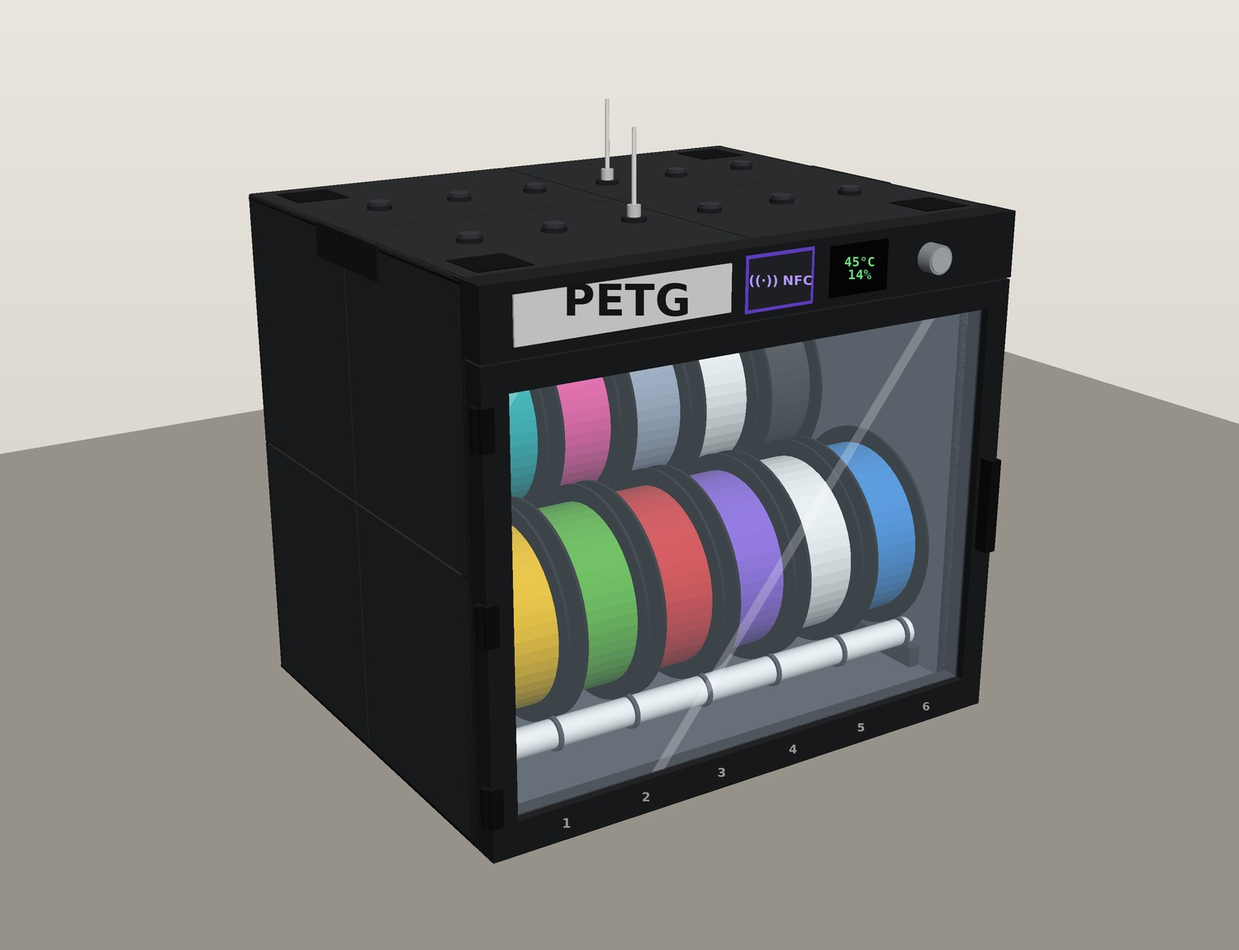
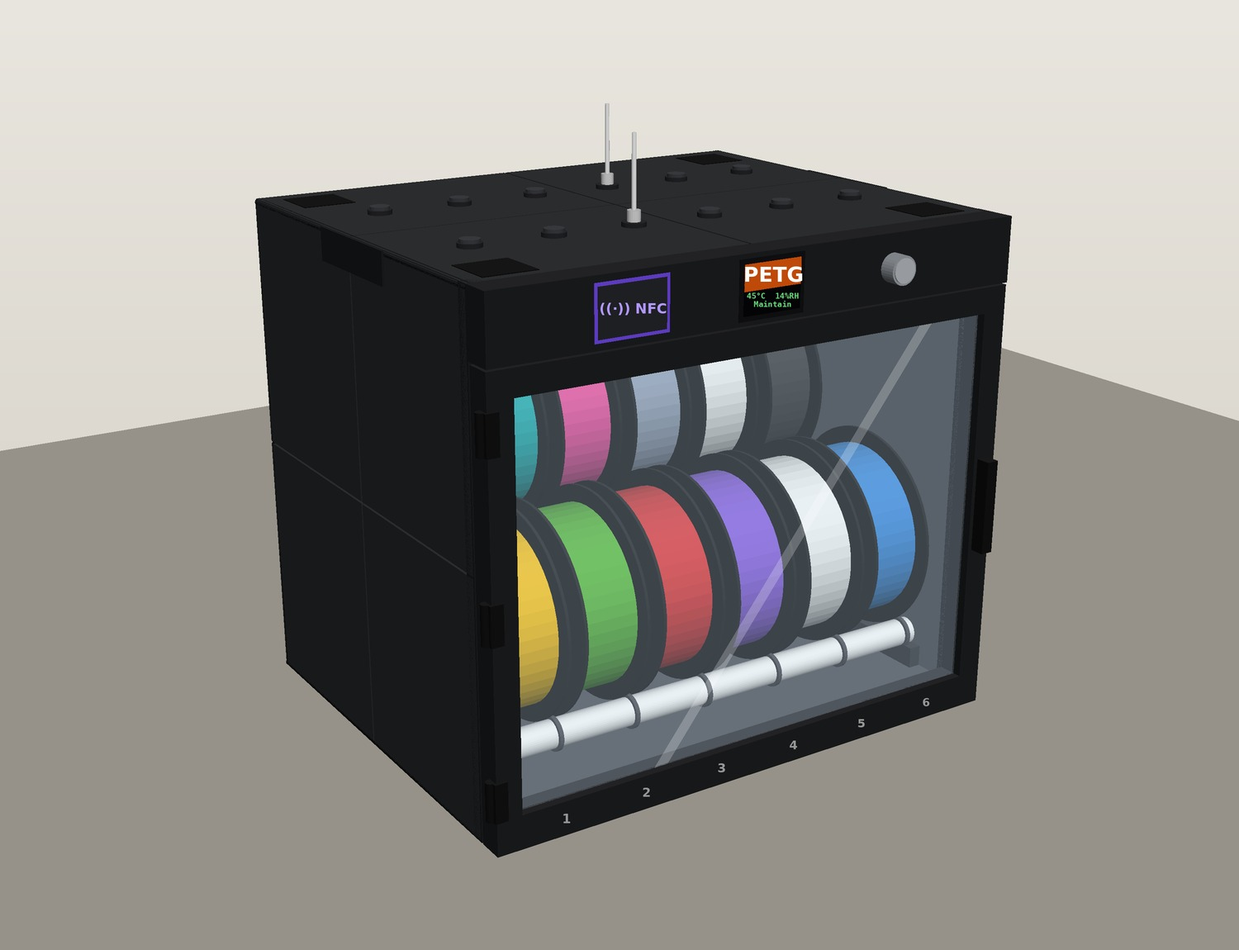
Dry cabinet v0.8: material label on a 2.8 in IPS TFT, no printed plate
Cabinet name, label colour and idle brightness settings; always-on label
page with wake on door/knob/tap; backup tag on the door rail; header,
figures, wiring and renders updated.

Claude-Session: https://claude.ai/code/session_01Fr6xhM7DESu9XfqMuZQkwi

diff --git a/models/filament-dry-cabinet/source/draw.py b/models/filament-dry-cabinet/source/draw.py
@@ -25,7 +25,7 @@ for r in [(0,-T+4,ID,T-8),(0,IH+4,ID,T-8),(ID+4,-T,T-8,IH+2*T)]:
 # door (twin-wall polycarbonate) + header
 ax.add_patch(Rectangle((-DOOR, -T), DOOR, IH+2*T-HEADER, facecolor='#9fd3f5', alpha=0.6, edgecolor='#333'))
 ax.add_patch(Rectangle((-DOOR, IH+T-HEADER), DOOR+8, HEADER, color='#222'))
-ax.text(-DOOR-6, IH+T-HEADER/2, 'header:\nlabel plate,\ndisplay, encoder', ha='right', va='center', fontsize=8)
+ax.text(-DOOR-6, IH+T-HEADER/2, 'header:\nNFC pad, 2.8" TFT\n(label), encoder', ha='right', va='center', fontsize=8)
 ax.text(-DOOR-6, IH/2-40, 'door: printed frame,\n2 x polycarbonate\n+ air gap, EPDM seal', ha='right', va='center', fontsize=8)
 # rear control pod
 ax.add_patch(Rectangle((ID+T, 30), POD, 230, facecolor='#555', edgecolor='#222'))
@@ -103,20 +103,21 @@ ax.add_patch(Rectangle((-T, -T-FEET), EW, A['eh'], facecolor='#2b2b2b'))
 # door glass and header
 htop = IH + T; hy = htop - HEADER
 ax.add_patch(Rectangle((0, -T+12), IW, hy-4-(-T+12), facecolor='#cfe8fc', alpha=0.9, edgecolor='#111', lw=3))
-ax.add_patch(Rectangle((30, hy+10), 200, HEADER-20, facecolor='#e9ecef', edgecolor='#111'))
-ax.text(130, hy+HEADER/2+3, 'PETG', ha='center', va='center', fontsize=22, weight='bold')
-ax.text(130, hy+11, 'swappable label plate', ha='center', va='bottom', fontsize=6)
 # NFC tap pad (PN5180 antenna behind the header)
-ax.add_patch(Rectangle((245, hy+6), 70, HEADER-12, facecolor='#343a40', edgecolor='#7048e8', lw=2))
+ax.add_patch(Rectangle((80, hy+6), 70, HEADER-12, facecolor='#343a40', edgecolor='#7048e8', lw=2))
 for r in (8, 14, 20):
-    ax.add_patch(matplotlib.patches.Arc((268, hy+HEADER/2), r, r*1.3, theta1=-50, theta2=50, color='#b197fc', lw=1.5))
-ax.text(295, hy+HEADER/2, 'TAP', ha='center', va='center', color='#b197fc', fontsize=9, weight='bold')
-ax.text(280, hy+1, 'NFC (OpenPrintTag)', ha='center', va='bottom', fontsize=5.5, color='white')
-ax.add_patch(Rectangle((330, hy+8), 62, HEADER-16, facecolor='#111', edgecolor='#666'))
-ax.text(361, hy+HEADER/2, '42°C\n14%RH', ha='center', va='center', color='#69db7c', fontsize=8, family='monospace')
-ax.add_patch(Circle((440, hy+HEADER/2), 14, facecolor='#adb5bd', edgecolor='#111'))
-ax.text(440, hy+1, 'encoder', ha='center', va='bottom', fontsize=6, color='white')
-ax.text(361, hy+1, '2.0" TFT', ha='center', va='bottom', fontsize=6, color='white')
+    ax.add_patch(matplotlib.patches.Arc((103, hy+HEADER/2), r, r*1.3, theta1=-50, theta2=50, color='#b197fc', lw=1.5))
+ax.text(130, hy+HEADER/2, 'TAP', ha='center', va='center', color='#b197fc', fontsize=9, weight='bold')
+ax.text(115, hy+1, 'NFC (OpenPrintTag)', ha='center', va='bottom', fontsize=5.5, color='white')
+# 2.8 in IPS TFT, centred: material name on a colour band + status line
+cx, cz = IW/2, hy+HEADER/2
+ax.add_patch(Rectangle((cx-28.8, cz-21.6), 57.6, 43.2, facecolor='#050608', edgecolor='#666'))
+ax.add_patch(Rectangle((cx-28.8, cz-1), 57.6, 22.6, facecolor='#e8590c'))
+ax.text(cx, cz+10.5, 'PETG', ha='center', va='center', color='white', fontsize=13, weight='bold')
+ax.text(cx, cz-11, '45°C 14%RH', ha='center', va='center', color='#69db7c', fontsize=5.5, family='monospace')
+ax.text(cx, hy+1, '2.8" IPS TFT (label + menu)', ha='center', va='bottom', fontsize=5.5, color='white')
+ax.add_patch(Circle((375, hy+HEADER/2), 14, facecolor='#adb5bd', edgecolor='#111'))
+ax.text(375, hy+1, 'encoder', ha='center', va='bottom', fontsize=6, color='white')
 # LED strip just inside, under the header
 ax.add_patch(Rectangle((10, hy-14), IW-20, 6, color='#fab005'))
 for i in range(6):
@@ -138,6 +139,6 @@ ax.text(IW+8, A['rod_front'], '3/4 in PVC rods\n+ index collars', fontsize=8, va
 ax.text(IW+8, IH+T-HEADER-11, 'SK6812 strip\n(5 LEDs per slot)', fontsize=8, va='center')
 ax.set_xlim(-T-10, EW+90); ax.set_ylim(-T-FEET-45, A['eh']-T-FEET+10)
 ax.set_aspect('equal'); ax.axis('off')
-ax.set_title('Front view: slots F1-F6 / B1-B6, label plate, NFC tap pad, display + encoder', fontsize=12)
+ax.set_title('Front view: slots F1-F6 / B1-B6, NFC tap pad, 2.8" TFT (shows the label), encoder', fontsize=12)
 plt.savefig('layout_front.png', dpi=110, bbox_inches='tight')
 print('ok')

diff --git a/models/filament-dry-cabinet/source/render/scene.py b/models/filament-dry-cabinet/source/render/scene.py
@@ -8,6 +8,7 @@ from PIL import Image, ImageDraw, ImageFont, ImageFilter
 A = stadium(6, 120)
 IW, ID, IH = A['iw'], A['idepth'], A['ih']
 T = WALL; HEADER = 60.0
+MAT_COL = {'PLA': '#2f9e44', 'PETG': '#e8590c', 'ABS': '#c92a2a', 'ASA': '#c92a2a', 'TPU': '#1971c2', 'Nylon': '#6741d9'}
 X0, X1 = -T, IW + T                 # exterior x
 YF, YB = -DOOR, ID + T              # exterior y (front of door .. back)
 ZB, ZT = -T, IH + T                 # exterior z (bottom of shell .. top)
@@ -98,19 +99,20 @@ def cabinet(ox=0, oz=0, material='PETG', spool_cols=SPOOL_COLS, ports_open=(2, 9
     add(box(X0-2, X0, 140, 260, ZT-30, ZT), hexc('#1b1c1f')); add(box(X1, X1+2, 140, 260, ZT-30, ZT), hexc('#1b1c1f'))
     # header (60 mm) across the front
     add(box(X0, X1, YF-1, 0, ZT-HEADER, ZT), FRAME)
-    # label plate
-    add(box(X0+28, X0+228, YF-3, YF-1, ZT-HEADER+10, ZT-10), hexc('#e6e7e9'))
-    labels.append(((X0+128+ox, YF-3, ZT-HEADER/2+3+oz), material, 'plate'))
     # NFC tap pad (recessed, purple ring)
-    add(box(X0+243, X0+313, YF-1.6, YF-1, ZT-HEADER+6, ZT-6), hexc('#7048e8'))
-    add(box(X0+246, X0+310, YF-2.2, YF-1.2, ZT-HEADER+9, ZT-9), hexc('#25262b'))
-    labels.append(((X0+278+ox, YF-2.3, ZT-HEADER/2+oz), 'NFC', 'nfc'))
-    # display
-    add(box(X0+330, X0+392, YF-2.5, YF-1, ZT-HEADER+8, ZT-8), hexc('#050608'))
-    labels.append(((X0+361+ox, YF-2.6, ZT-HEADER/2+oz), '45°C\n14%', 'tft'))
+    add(box(X0+95, X0+165, YF-1.6, YF-1, ZT-HEADER+6, ZT-6), hexc('#7048e8'))
+    add(box(X0+98, X0+162, YF-2.2, YF-1.2, ZT-HEADER+9, ZT-9), hexc('#25262b'))
+    labels.append(((X0+130+ox, YF-2.3, ZT-HEADER/2+oz), 'NFC', 'nfc'))
+    # 2.8 in IPS TFT (57.6 x 43.2 active), centred: the material name is shown on it
+    cx = (X0+X1)/2; zc = ZT-HEADER/2
+    add(box(cx-33, cx+33, YF-1.8, YF-1, zc-26, zc+26), hexc('#111214'))             # bezel
+    add(box(cx-28.8, cx+28.8, YF-2.4, YF-1.6, zc-21.6, zc+21.6), hexc('#050608'))   # panel
+    add(box(cx-28.8, cx+28.8, YF-2.6, YF-2.2, zc-1, zc+21.6), hexc(MAT_COL.get(material, '#868e96')))
+    labels.append(((cx+ox, YF-2.8, zc+10.5+oz), material, 'tftname'))
+    labels.append(((cx+ox, YF-2.8, zc-11+oz), '45°C  14%RH\nMaintain', 'tftinfo'))
     # encoder knob
-    add(cyl_y(X0+440, YF-16, YF-1, ZT-HEADER/2, 13), hexc('#9aa0a6'))
-    add(cyl_y(X0+440, YF-17, YF-16, ZT-HEADER/2, 11), hexc('#b8bdc2'))
+    add(cyl_y(X0+395, YF-16, YF-1, ZT-HEADER/2, 13), hexc('#9aa0a6'))
+    add(cyl_y(X0+395, YF-17, YF-16, ZT-HEADER/2, 11), hexc('#b8bdc2'))
     # door frame (25 mm border) and glass
     dz0, dz1 = ZB, ZT-HEADER-2
     bw = 24
@@ -222,8 +224,11 @@ def render(items, glass, labels, out, eye, target, fov=32, W=1500, H=1150, ss=2,
         xi, yi = int(x), int(y)
         if not (0 <= xi < Wr and 0 <= yi < Hr) or z > zb[yi, xi] + 6: continue   # occluded
         scale = f/z
-        if kind == 'plate':
-            fnt = ImageFont.truetype(F_B, int(34*scale)); dr.text((x, y), txt, font=fnt, fill=(20, 20, 22), anchor='mm')
+        if kind == 'tftname':
+            fnt = ImageFont.truetype(F_B, int(17*scale)); dr.text((x, y), txt, font=fnt, fill=(255, 255, 255), anchor='mm')
+        elif kind == 'tftinfo':
+            fnt = ImageFont.truetype(F_M, int(6.5*scale))
+            dr.multiline_text((x, y), txt, font=fnt, fill=(105, 219, 124), anchor='mm', align='center', spacing=2)
         elif kind == 'nfc':
             fnt = ImageFont.truetype(F_B, int(11*scale)); dr.text((x, y), '((·)) ' + txt, font=fnt, fill=(177, 151, 252), anchor='mm')
         elif kind == 'tft':

diff --git a/models/filament-dry-cabinet/source/wiring.py b/models/filament-dry-cabinet/source/wiring.py
@@ -38,7 +38,7 @@ box(102, 47, 24, 12, 'Door reed switch', 'light on when open\nheater/fan pause',
 wire((39, 50), (44, 50), SIG); wire((44, 50), (44, 44.5), SIG); wire((44, 44.5), (114, 44.5), SIG, 'I2C / ADC / GPIO (3.3 V)')
 for x in (61, 87, 114): wire((x, 44.5), (x, 46.6), SIG)
 # UI and LEDs
-box(50, 24, 24, 15, 'Front header UI', '2.0" ILI9341/ST7789 SPI TFT\nEC11 rotary encoder + push\ngraphical_display_menu', fc='#e7f5ff', ec=SIG)
+box(50, 24, 24, 15, 'Front header UI', '2.8" IPS SPI TFT (label + menu)\nbacklight PWM, EC11 encoder\ngraphical_display_menu', fc='#e7f5ff', ec=SIG)
 wire((29, 47), (29, 31), SIG); wire((29, 31), (50, 31), SIG, 'SPI + encoder')
 box(80, 24, 24, 15, 'SK6812 RGBW 5 V', '60 LED/m, ~30 LEDs\n74AHCT125 level shift\n330 R + 1000 uF', fc='#ebfbee', ec=V5)
 wire((35, 47), (35, 21.5), SIG); wire((35, 21.5), (86, 21.5), SIG, 'LED data (RMT)'); wire((86, 21.5), (86, 23.6), SIG)

diff --git a/models/filament-dry-cabinet/DESIGN.md b/models/filament-dry-cabinet/DESIGN.md
@@ -1,4 +1,4 @@
-# Filament Dry Cabinet: Design Spec (v0.7)
+# Filament Dry Cabinet: Design Spec (v0.8)
 
 This spec is for review before any CAD. v0.2 includes your answers to the open questions (§10). It sets the layout, construction, electronics, ESPHome control and the Spoolman slot scheme for **one cabinet**. You'll build **one cabinet per material family**: PLA, PETG, ABS/ASA, and so on.
 
@@ -9,9 +9,9 @@ This spec is for review before any CAD. v0.2 includes your answers to the open q
 | R1 | Filament storage that also dehumidifies | Sealed, insulated chamber with a **low-voltage PTC heater**, a circulation fan and **pull-out silica gel cartridges** (§5) |
 | R2 | Modular, looks like the concept picture | **Printed tile panels** (each ≤ 330 mm, to fit the 350 mm bed) bolted together, a dark frame and a full-width glass door (§4) |
 | R3 | PVC or other hardware-store parts as spool shelves | Spools roll on **3/4 in Sch 40 PVC pipe** (26.7 mm OD) set in printed cradles (§4.3) |
-| R4 | ESPHome (ESP32) with local controls and status | ESP32-S3, a **2.0 in TFT and rotary encoder** for setpoints, plus the HA API and a local web page (§6, §7) |
+| R4 | ESPHome (ESP32) with local controls and status | ESP32-S3, a **2.8 in IPS TFT and rotary encoder** for setpoints, plus the HA API and a local web page (§6, §7) |
 | R5 | SK6812 LED lighting | **SK6812 RGBW** strip under the front header, 5 LEDs per slot, so it can **light up a single slot** (§6.4) |
-| R6 | Front label plate, and an index position for each spool that Spoolman can manage | Swappable **material label plate** in the header. **Slot IDs F1–F6 and B1–B6** on index collars and the door rail (§8). |
+| R6 | Front label, and an index position for each spool that Spoolman can manage | **The material label is shown on the 2.8 in TFT** (v0.8, replaces the printed plate), set from the menu or HA, plus a small printed backup tag on the door rail. **Slot IDs F1–F6 and B1–B6** on the door rail (§8). |
 | R7 | **≤ 20 in (508 mm) deep** for standard shelves, **≤ 20 in shelf spacing** | **442 mm (17.4 in)** cabinet, **492 mm (19.4 in)** with the rear control pod, using offset-height rows. **485 mm (19.1 in) tall.** (§3) |
 | R8 | IEC 320 C14 fused inlet | **Fused and switched C14 module** in the rear control pod (§6.1) |
 | R9 | About 12 spools | **12 × 1 kg spools** (200 mm across, up to 75 mm wide) |
@@ -83,12 +83,14 @@ Renders are drawn from the spec dimensions (§3). The original inspiration image
 - **Printed U-cradles** on the side walls let the rods turn, so spools spin freely and can feed out. The rods also lift straight out for cleaning. The back-row cradles sit on printed risers, 120 mm higher.
 - **Index collars:** printed 46 mm rings, 5 mm wide, every **80 mm** (75 mm spool plus 5 mm gap). They **slide on from the rod end** (the rods lift out) and **three spring tabs grip the PVC**, so they can be moved. A split ring that clips on sideways would be too stiff at this size (v0.7). They keep spools in their slots. Slot numbers are on the door rail, since the rods turn.
 
-### 4.4 Front header and label plate
+### 4.4 Front header and on-screen label
 - A 60 mm header above the door holds, from left to right:
-  - a **swappable label plate**: multicolour printed text such as "PETG" that slides into a groove
   - the **NFC tap pad**, a recessed area with a printed tap icon over the PN5180 antenna
-  - the **2.0 in TFT**
+  - the **2.8 in IPS TFT** (320 × 240, about 57.6 × 43.2 mm active, module about 86 × 50 mm), centred. **It is the cabinet's label** (v0.8): the material name in large letters on a colour band, with temperature, humidity and mode below. See §7 for the screen behaviour.
   - the **encoder knob**
+- **The printed label plate is gone** (v0.8). The name is a setting, so changing what a cabinet holds needs no reprint.
+- **Backup tag:** a small printed tag (about 40 × 12 mm) clips into a slot at the left end of the door's bottom rail, so the cabinet is still identified when it's unplugged.
+- **Display mount:** the panel sits behind a printed bezel with a 58.6 × 44.2 mm window, held by its four PCB holes on printed standoffs. Measure the exact module before the header CAD, since 2.8 in boards vary by a few mm.
 - **The tap pad has no metal over it**, and the plastic covering the antenna is no more than 2–3 mm thick. If the PN5180 module you buy doesn't fit behind a 60 mm header, the header grows by up to 10 mm. The cabinet would then be 504 mm (19.8 in) tall, still under 20 in.
 - The **slot numbers 1–6** are also moulded into the door's bottom rail, lined up with the columns.
 
@@ -169,7 +171,7 @@ There's also a **"Dry" mode** that runs a timed cycle at the cabinet's maximum t
 | Heater | logic-level N-MOSFET, low side | GPIO, `slow_pwm` (about 5 s period) |
 | Fan | 4-pin PWM | LEDC at 25 kHz, tach to `pulse_counter` |
 | LEDs | SK6812 RGBW, about 30 LEDs | `esp32_rmt_led_strip`, via a **74AHCT125** level shifter, 330 Ω series resistor and 1000 µF at the strip |
-| Display | 2.0 in ILI9341/ST7789 SPI TFT | SPI |
+| Display | **2.8 in IPS SPI TFT, 320 × 240** (ST7789 or ILI9341 IPS), no touch | SPI (shared with the PN5180, own CS) + **backlight on an LEDC PWM pin** via a small transistor |
 | Local control | EC11 rotary encoder with push switch | `rotary_encoder` + GPIO |
 | Door | reed switch + magnet | GPIO (`binary_sensor`) |
 | Buzzer (optional) | piezo for alarms | GPIO / LEDC |
@@ -216,7 +218,10 @@ There's also a **"Dry" mode** that runs a timed cycle at the cabinet's maximum t
 | **Max chamber temperature** | number (restored) | Capped by the material preset |
 | **Fan minimum %** | number (restored) | Circulation while idle |
 | Mode | select | `Off` / `Maintain` / `Dry (timed)` |
-| Material preset | select | Sets the defaults in §5. The label plate is the physical match. |
+| Material preset | select | Sets the defaults in §5 |
+| **Cabinet name** | text (restored, max 8 characters) | **The label on the screen**, and the prefix of the slot IDs (`PETG-F3`). Set from HA or the encoder menu. Defaults to the material preset. |
+| **Label colour** | select (restored) | Colour band behind the name: **Auto** (from the material preset) · Same as lights · any light colour preset |
+| **Idle brightness** | number (restored, 10–100 %) | Backlight when nobody is using the cabinet. Never fully off, since the screen is the label. |
 | Heater max power % | number (restored) | Optional cap on top of PID, for example 60 % in a PLA cabinet |
 | Chamber heater | climate (`pid`) | PID on chamber temperature, with **autotune** |
 | PID autotune | **local menu item** (not an HA button) | Started from the encoder menu (see the menu below). Runs `climate.pid.autotune`. Progress and results show on the TFT. |
@@ -238,7 +243,12 @@ There's also a **"Dry" mode** that runs a timed cycle at the cabinet's maximum t
 
 **PID tuning:** every cabinet uses the same heater, but cabinets differ in where they stand, their ambient temperature and how many spools they hold. Run **autotune once per cabinet** with it loaded and the door closed. Start it from the **encoder menu (Tuning → PID autotune → Start)**. It asks you to confirm, so a stray knob press can't start it. The screen then shows the progress. ESPHome's `pid` climate drives the heater in a relay cycle around the setpoint, and the suggested kp, ki and kd are shown on the TFT and written to the log. Put those into the YAML substitutions, or into the restored `number` entities if you'd rather tune it live. The firmware interlocks (§6.3) stay active during autotune.
 
-**Local UI:** the TFT shows a status page (T, RH, absolute humidity, heater %, fan RPM, mode, material). Pressing the encoder opens a **`graphical_display_menu`**, where you adjust the setpoints with the knob.
+**Local UI (2.8 in TFT):**
+- **Label page (default, always on):** the **cabinet name** in large letters (about 13 mm tall, readable across the room) on the label colour band, then a status line with temperature, RH and mode, plus fault and desiccant icons. The backlight sits at **idle brightness** (default 30 %).
+- **Wake:** opening the door, turning the knob or tapping a tag brings the backlight to 100 %. It drops back to idle 60 s after the last activity.
+- **Detail page:** one knob click from the label page shows T, RH, absolute humidity, dew point, heater %, fan RPM and days since the desiccant recharge.
+- **NFC tap:** shows the tag's brand, material, colour and weight, then the slot ("Put in B4") while that slot's LEDs light.
+- **Menu:** a press opens the **`graphical_display_menu`**, where you adjust the setpoints with the knob. Times out back to the label page.
 
 **Menu (draft):**
 
@@ -247,6 +257,7 @@ There's also a **"Dry" mode** that runs a timed cycle at the cabinet's maximum t
 | Mode | Off / Maintain / Dry (timed) |
 | Setpoints | Target RH · Max chamber temp · Fan minimum % · Heater max % · Dry timer (h) |
 | Material preset | PLA · PETG · ABS/ASA · TPU · Nylon/PC (loads the defaults in §5) |
+| **Label** | Cabinet name (pick letters with the knob) · Label colour · Idle brightness |
 | Lights | On/off · Brightness · **Colour** (preset list) · **Custom colour** (R / G / B, 0–255) · Find slot (choose F1–B6 to light it) |
 | Desiccant | Days since recharge · **Reset after recharge** (asks to confirm) |
 | **Spools** | **Check in** (tap, choose a slot, confirm) · **Check out** (tap or choose a slot) · Last scanned tag · Slot map (F1–B6 with what's in each) |
@@ -259,7 +270,7 @@ There's also a **"Dry" mode** that runs a timed cycle at the cabinet's maximum t
 ## 8. Spoolman slot scheme
 
 - **Slot ID = `<cabinet>-<row><position>`**, for example **`PETG-F3`** or **`ABS-B6`**. Put it in Spoolman's **Location** field for the spool. F is the front row and B is the back row, and positions run 1–6 from left to right.
-- **On the cabinet:** the label plate shows the cabinet name ("PETG"). Index collars and the door rail show 1–6. The rows are physically obvious: front is low, back is high.
+- **On the cabinet:** the TFT shows the cabinet name ("PETG"), which is also the slot ID prefix, and the backup tag on the door rail matches it. The door rail shows 1–6. The rows are physically obvious: front is low, back is high.
 - **Spoolman QR labels** go on the spool sides that face the door. They're still useful for spools without an NFC tag.
 
 ### 8.1 NFC check-in / check-out flow (OpenPrintTag)
@@ -298,7 +309,8 @@ The slot map on the cabinet is rebuilt from Spoolman's Location fields at startu
 - Logic-level MOSFET module (heater)
 - 24 V 4-pin PWM fan (60–80 mm)
 - SK6812 RGBW 5 V strip (60/m, 0.5 m), 74AHCT125, 330 Ω, 1000 µF
-- 2.0 in SPI TFT (ILI9341/ST7789), EC11 encoder, reed switch + magnet
+- 2.8 in IPS SPI TFT, 320 × 240 (ST7789 or ILI9341 IPS), no touch; small NPN/N-MOSFET for backlight PWM
+- EC11 encoder, reed switch + magnet
 - **PN5180 NFC module** (ISO 15693 + 14443A, SPI). Check the board size against the header (§4.4).
 - **Blank ICODE SLIX2 tags** for spools that don't ship with OpenPrintTag
 - Wire: 18 AWG for mains, 20 AWG for 24 V. Ferrules, connectors.
@@ -314,14 +326,14 @@ The slot map on the cabinet is rebuilt from Spoolman's Location fields at startu
 | Shelf height | 20 in shelves. **Keep the lift room**, and the cabinet is **19.5 in tall** after trimming the feet, cradles and top clearance. |
 | PTFE ports | **Yes, top and back, closable:** one port module design with PTFE, blank and cap versions (§4.6) |
 | Stacking | **Yes:** nesting feet and pockets, plus optional side links (§4.7) |
-| UI | **2.0 in TFT + encoder** |
+| UI | **2.8 in IPS TFT + encoder** (v0.8). The screen is also the label; no printed plate. |
 | Mains | **120 V only** |
 | Shell material | **ABS or ASA** for all printed parts |
 | Heater | **150 W in every cabinet**, with the same PSU and parts. **PID with autotune** adjusts it for each cabinet. |
 | NFC | **Add an OpenPrintTag reader:** a PN5180 tap pad in the header for checking spools in and out (§6.5, §8.1) |
 
 Still open (not blocking CAD):
-- **Which material cabinet to build first?** This now only changes the label plate and the firmware preset.
+- **Which material cabinet to build first?** This now only changes firmware settings (cabinet name and material preset) and the backup tag.
 - **Port socket thread:** this will be confirmed with a fit-test print.
 - **PN5180 module size:** this decides whether the header stays at 60 mm or grows to 70 mm.
 
@@ -330,7 +342,7 @@ Still open (not blocking CAD):
 | Phase | Deliverable |
 |---|---|
 | **1 (this)** | Design spec, layout, electrical plan, BOM |
-| 2 | CAD: tiles, corner posts, front frame, door, hinges, rod cradles and risers, index collars, label plate, header with display, heater duct, desiccant cartridges, rear pod, **port sockets and modules with a fit-test coupon**, **stacking feet, pockets and links**. STEP and STL. |
+| 2 | CAD: tiles, corner posts, front frame, door, hinges, rod cradles and risers, index collars, backup tag, header with the 2.8 in display bezel, heater duct, desiccant cartridges, rear pod, **port sockets and modules with a fit-test coupon**, **stacking feet, pockets and links**. STEP and STL. |
 | 3 | ESPHome YAML, pin map and wiring diagram |
 | 3b | **ESPHome PN5180 external component**: ISO 15693 inventory and read, plus OpenPrintTag payload. Tested on a bench board before it goes in the cabinet. |
 | 4 | Prototype: one cabinet. Test the fit, the heat-up and holding RH. |

diff --git a/models/filament-dry-cabinet/README.md b/models/filament-dry-cabinet/README.md
@@ -12,7 +12,7 @@ summary: Modular, stackable, heated and desiccant-dried 12-spool cabinet (one pe
 
 ![Concept render](images/render_front.jpg)
 
-A modular cabinet that stores **12 × 1 kg spools** and keeps them dry. A low-voltage **PTC heater** circulates warm air through **pull-out silica gel cartridges**. An **ESP32 running ESPHome** controls it, with a local display and knob for setpoints, and integrates with Home Assistant. **SK6812** lighting can highlight individual slots. Each spool position has an ID (`PETG-F3`, for example) for Spoolman's Location field. You'll build **one cabinet per material**. It plugs in through an **IEC C14 fused inlet** (120 V). At **19.6 in deep and 19.5 in tall**, it fits standard 20 in shelves. Cabinets **stack**, and **closable PTFE ports** on the top and back can feed a printer straight from any slot.
+A modular cabinet that stores **12 × 1 kg spools** and keeps them dry. A low-voltage **PTC heater** circulates warm air through **pull-out silica gel cartridges**. An **ESP32 running ESPHome** controls it, with a local display and knob for setpoints, and integrates with Home Assistant. **SK6812** lighting can highlight individual slots. Each spool position has an ID (`PETG-F3`, for example) for Spoolman's Location field. You'll build **one cabinet per material**. It plugs in through an **IEC C14 fused inlet** (120 V). At **19.4 in deep and 19.1 in tall**, it fits standard 20 in shelves. Cabinets **stack**, and **closable PTFE ports** on the top and back can feed a printer straight from any slot.
 
 **Status: CAD phase 1. Fit-test coupons are ready to print** (DESIGN.md §12). See **[DESIGN.md](DESIGN.md)** for the full spec.
 
@@ -20,7 +20,7 @@ A modular cabinet that stores **12 × 1 kg spools** and keeps them dry. A low-vo
 
 ![Rear: control pod, IEC inlet, back PTFE ports](images/render_rear.jpg)
 
-*Concept renders drawn from the v0.6 spec dimensions (walls since slimmed to 15.7 mm). Shapes are simplified; this is not CAD.*
+*Concept renders drawn from the spec dimensions. Shapes are simplified; this is not CAD.*
 
 ![Side section](images/layout_side.png)
 
@@ -37,7 +37,7 @@ A modular cabinet that stores **12 × 1 kg spools** and keeps them dry. A low-vo
 | PTFE ports | 12 on top (one per slot) + 12 on the back. Each one takes a PTFE pass-through module (PC4-M10) or a sealed blank plug. |
 | Stacking | Feet nest into pockets in the cabinet below, with optional side links. Stacks of 2–3. |
 | Drying | 24 V PTC heater, 150 W in every cabinet with PID (autotune), + PWM fan + about 700 g of silica gel |
-| Control | ESP32-S3, SHT45/SHT40, 2.0 in TFT + encoder, ESPHome |
+| Control | ESP32-S3, SHT45/SHT40, 2.8 in IPS TFT (also shows the label) + encoder, ESPHome |
 | NFC | **PN5180 tap pad** in the header for **OpenPrintTag** (ISO 15693) and NTAG tags. Tap a spool and pick a slot, and Spoolman's Location updates. |
 | Power | 120 V IEC C14 fused and switched inlet → Mean Well 24 V PSU in a rear pod outside the chamber |
 | Safety | Hardware thermal cutouts (85 °C auto-reset + 102 °C fuse) and firmware interlocks |
@@ -56,6 +56,7 @@ A modular cabinet that stores **12 × 1 kg spools** and keeps them dry. A low-vo
 
 ## Revision History
 
+- **v0.8** (2026-11-22): the printed label plate is replaced by a **2.8 in IPS TFT that shows the material name** on a colour band, with status below. Added cabinet name, label colour and idle brightness settings, the screen behaviour, a backup tag on the door rail, and updated the header layout, figures and renders.
 - **v0.7** (2026-11-22): CAD phase 1, fit-test coupons for the port thread and O-ring, PC4-M10 hole, rod cradle, index collar, tile joint, inserts and foam pocket. Walls are now 15.7 mm (2.4 mm skin + 1/2 in foam), so the outside is 531 × 442 (492) × 485 mm. The O-ring is now 22 × 2 mm. Index collars now slide on from the rod end.
 - **v0.6.1** (2026-11-22): added concept renders (front, stacked PLA + PETG pair, rear). No spec changes.
 - **v0.6** (2026-11-22): added an OpenPrintTag NFC reader: a PN5180 tap pad in the header, a Spools menu for checking spools in and out, an HA → Spoolman flow, and the ESPHome PN5180 component as new firmware work.
